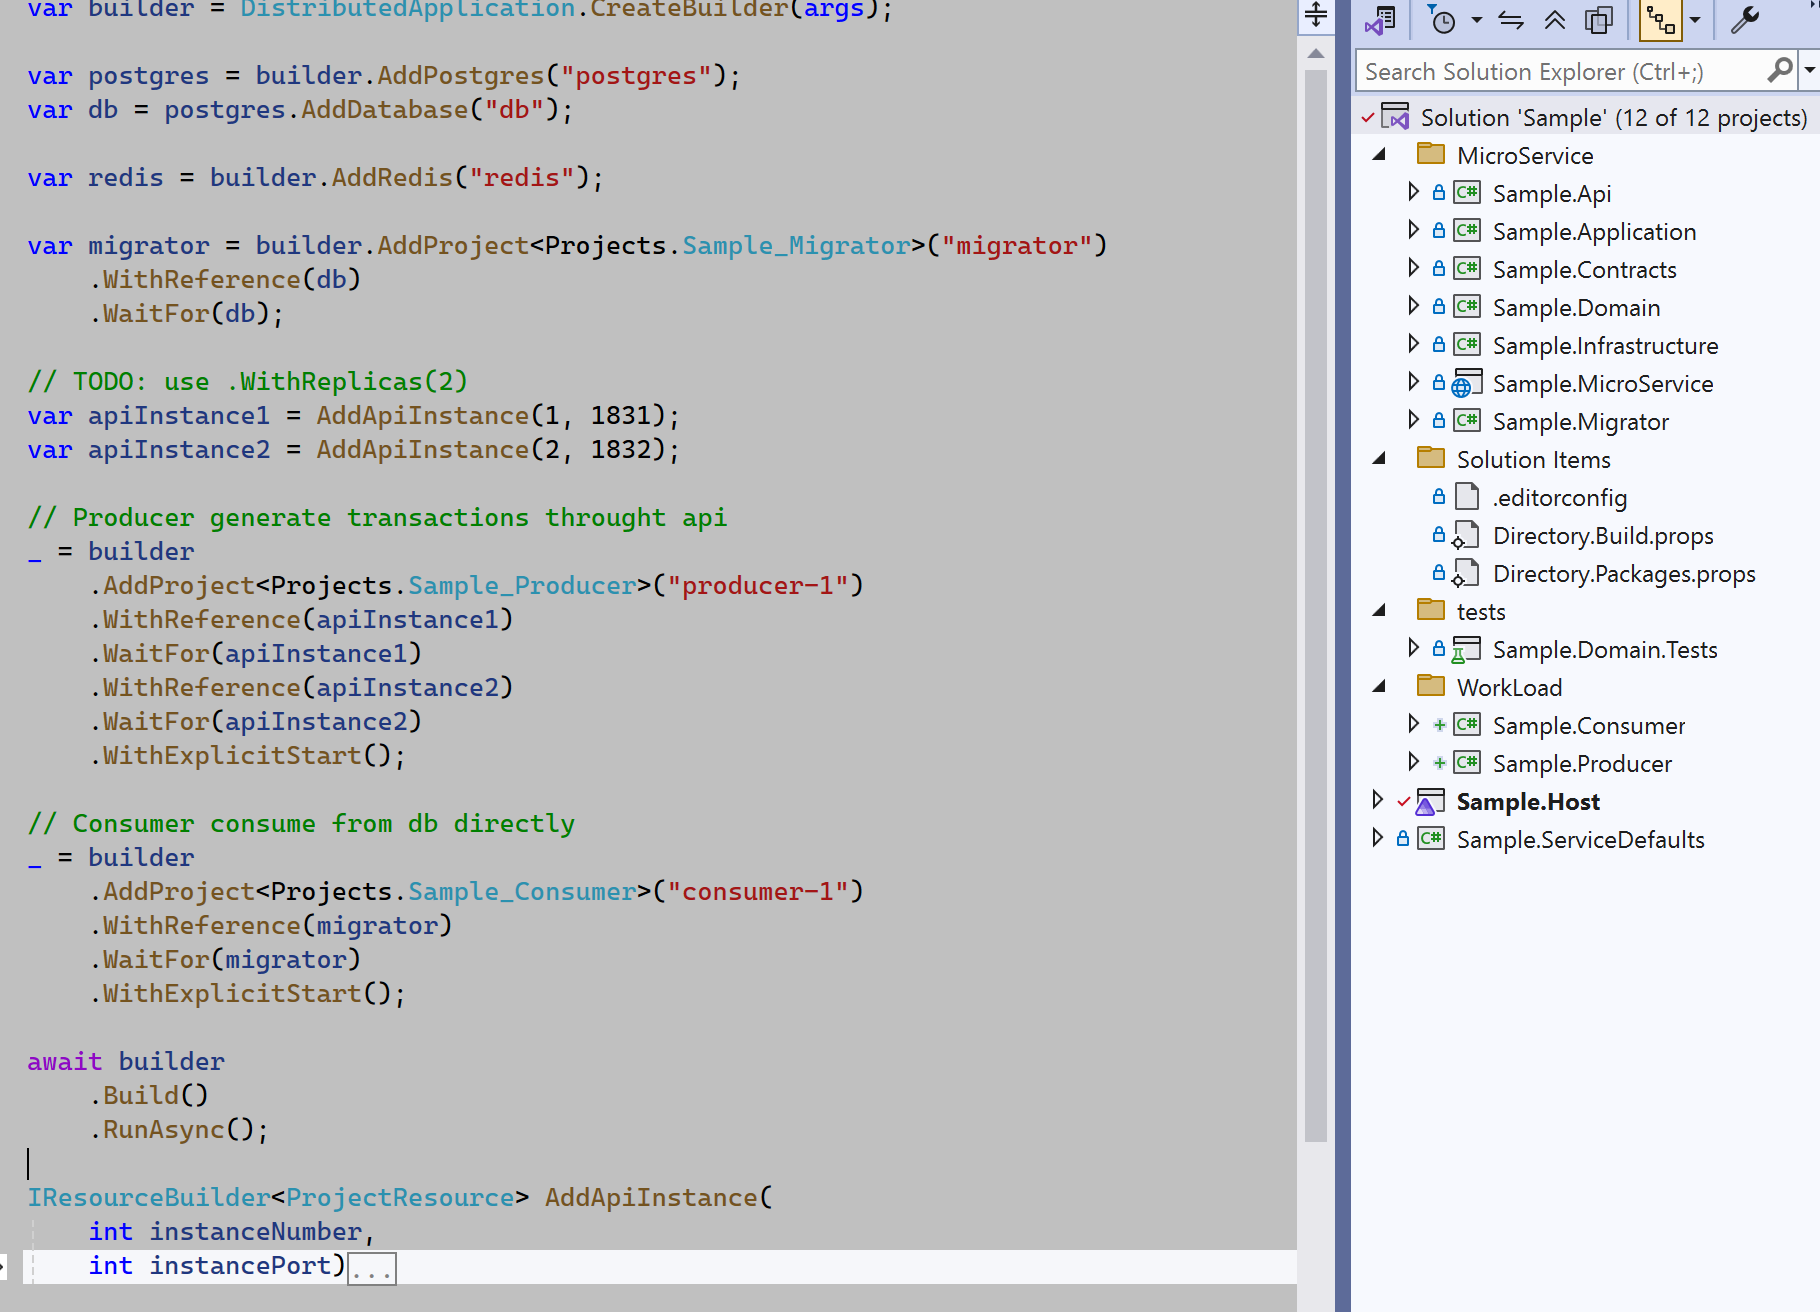
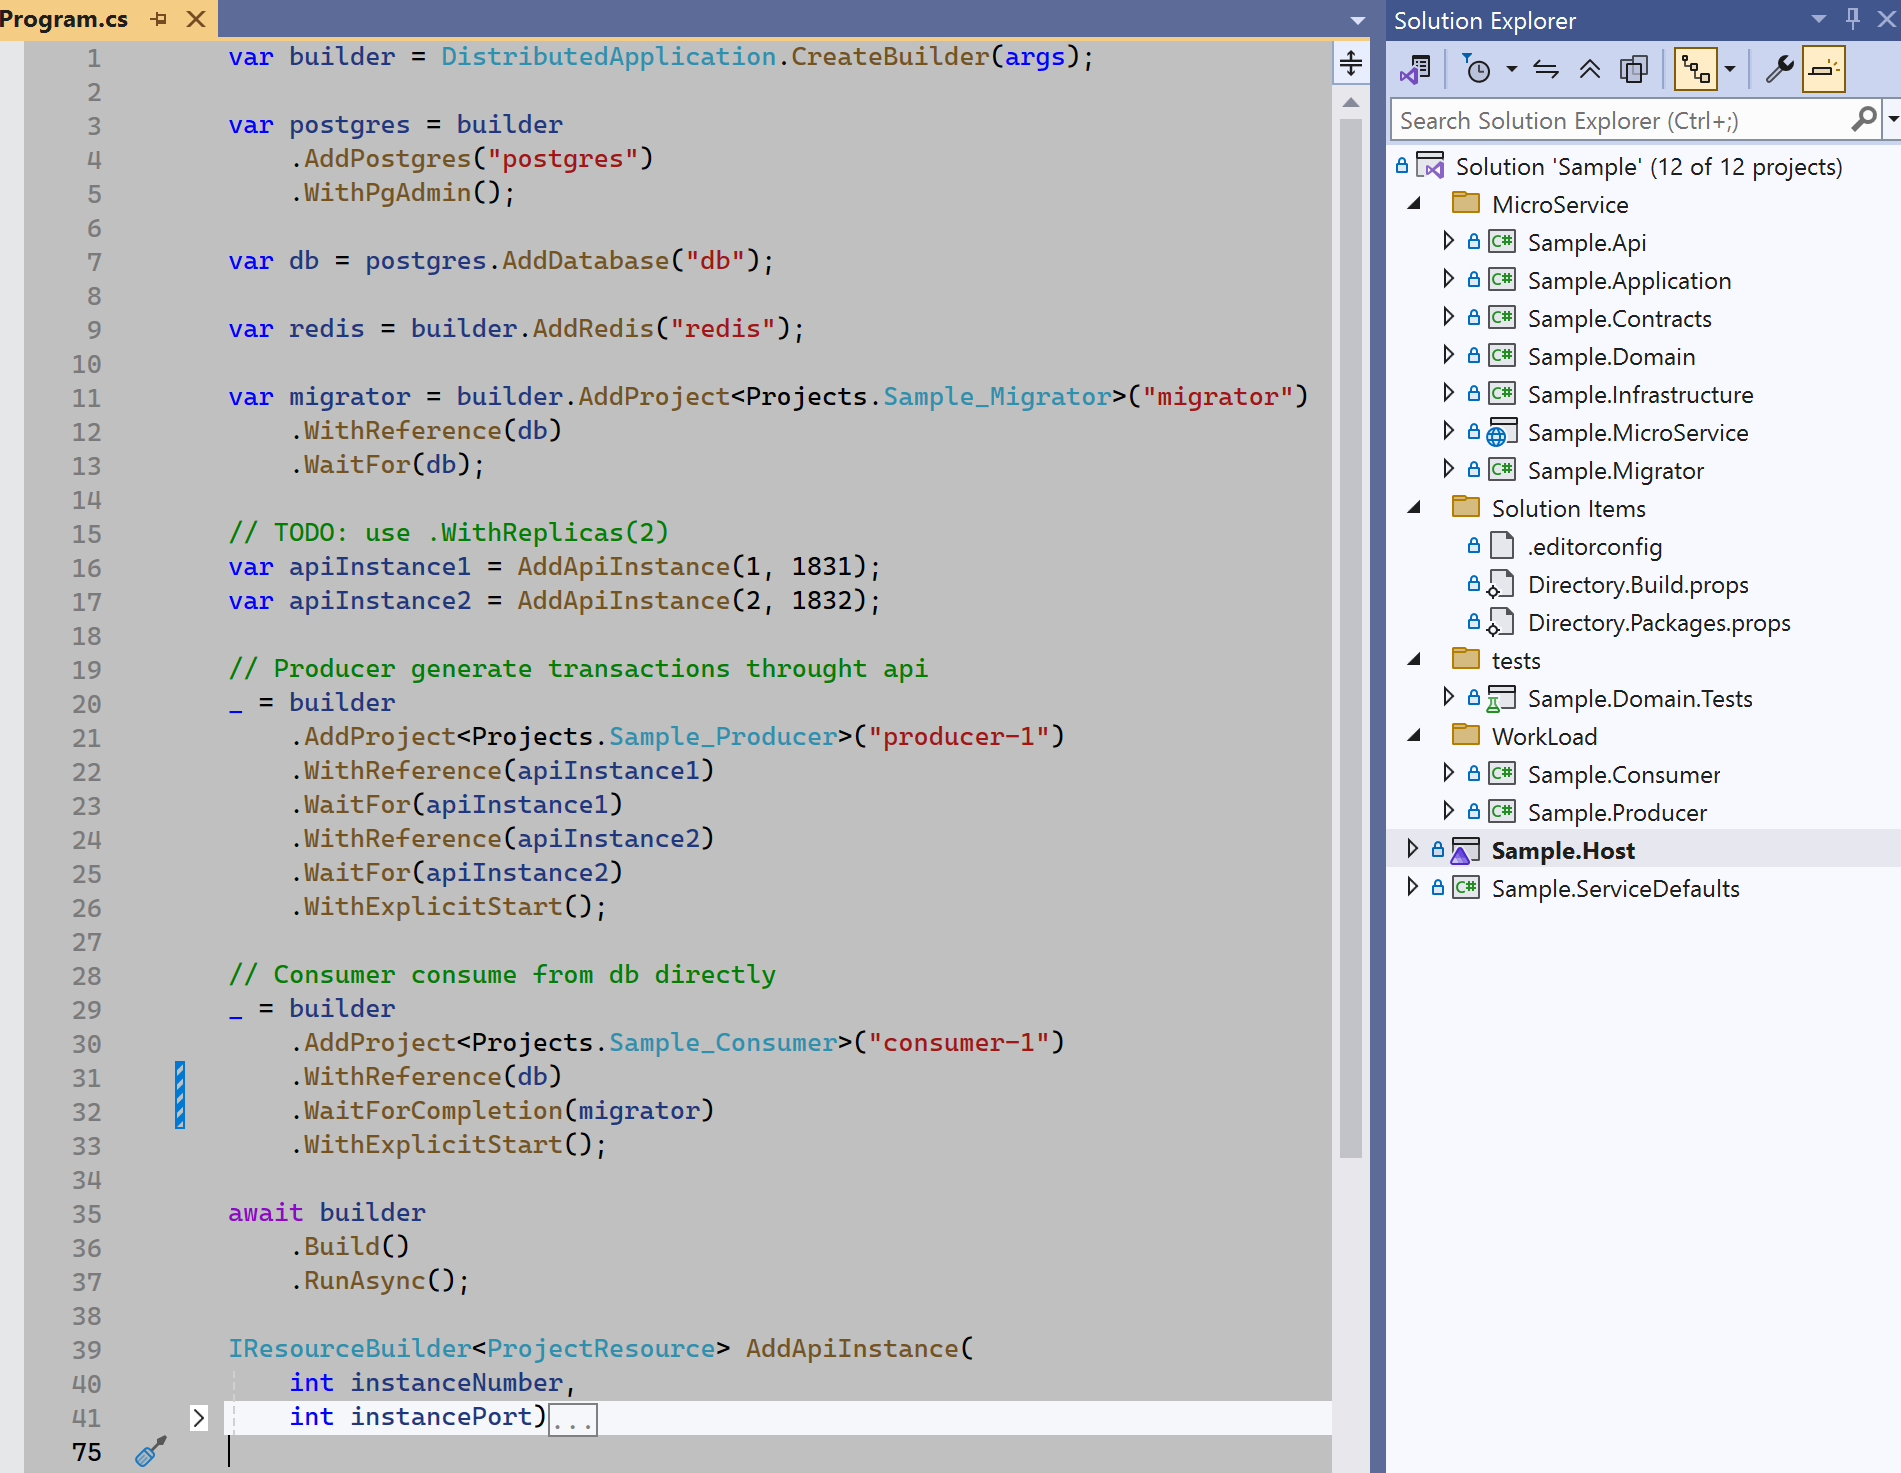
consumer implemeted

Changed region(s): [[0.0, 0.0, 1.0, 1.0], [0.4615, 0.5, 0.5231, 0.5312], [0.5231, 0.1875, 0.5538, 0.2188]]

diff --git a/src/Sample.Consumer/ConsumerHostedService.cs b/src/Sample.Consumer/ConsumerHostedService.cs
@@ -1,0 +1,73 @@
+using Microsoft.Extensions.DependencyInjection;
+using Microsoft.Extensions.Hosting;
+using Microsoft.Extensions.Logging;
+using Sample.Application.Abstractions;
+using Sample.Infrastructure.Database;
+
+namespace Sample.Producer;
+
+internal sealed class ConsumerHostedService : IHostedService
+{
+    // TODO: use options or aspire params
+    public const int BatchSize = 20;
+
+    private readonly IServiceScopeFactory _scopeFactory;
+    private readonly ILogger<ConsumerHostedService> _logger;
+    private readonly CancellationTokenSource _needStop;
+    private volatile int _counter = 0;
+
+    public ConsumerHostedService(
+        IServiceScopeFactory scopeFactory,
+        ILogger<ConsumerHostedService> logger)
+    {
+        _scopeFactory = scopeFactory;
+        _logger = logger;
+        _needStop = new CancellationTokenSource();
+    }
+
+    public Task StartAsync(CancellationToken cancellationToken)
+    {
+        _ = Task.Run(async () => await ProcessingTask(_needStop.Token));
+
+        return Task.CompletedTask;
+    }
+
+    // TODO: Dont work
+    public Task StopAsync(CancellationToken cancellationToken)
+    {
+        _needStop.Dispose();
+
+        _logger.LogInformation("Processed {0} transactions", _counter);
+
+        return Task.CompletedTask;
+    }
+
+    private async Task ProcessingTask(CancellationToken ct)
+    {
+        using var scope = _scopeFactory.CreateScope();
+        var repo = scope.ServiceProvider.GetRequiredService<ITransactionRepository>();
+
+        while (!ct.IsCancellationRequested)
+        {
+            try
+            {
+                var batch = await repo.ExtractBatch(BatchSize, ct);
+
+                Interlocked.Add(ref _counter, batch.Count);
+
+                if (_counter > 100)
+                {
+                    _logger.LogInformation("Processed ~100 transactions");
+                    _counter = 0;
+                }
+            }
+            catch (Exception ex)
+            {
+                _logger.LogError(ex, "Error by extracting batch of trans");
+            }
+
+            // Unsafe Processing...
+            await Task.Delay(50);
+        }
+    }
+}

diff --git a/src/Sample.Infrastructure/Database/TransactionRepository.cs b/src/Sample.Infrastructure/Database/TransactionRepository.cs
@@ -6,7 +6,7 @@ using Sample.Domain.Transactions;
 
 namespace Sample.Infrastructure.Database;
 
-internal sealed class TransactionRepository : ITransactionRepository
+public sealed class TransactionRepository : ITransactionRepository
 {
     /// <summary>
     /// TODO: Consider a flexible upper limit
@@ -79,5 +79,33 @@ internal sealed class TransactionRepository : ITransactionRepository
             .FirstOrDefaultAsync(ct);
 
         return entity;
+    }
+
+    public async Task<IReadOnlyList<Transaction>> ExtractBatch(
+        int batchSize,
+        CancellationToken ct)
+    {
+        using var pgTransaction = await _dbContext.Database.BeginTransactionAsync(
+            isolationLevel: System.Data.IsolationLevel.ReadCommitted,
+            cancellationToken: ct);
+
+        await _dbContext.Database.ExecuteSqlRawAsync(
+                sql: "LOCK TABLE transaction IN SHARE ROW EXCLUSIVE MODE",
+                cancellationToken: ct);
+
+        var batch = await _dbContext
+            .Set<Transaction>()
+            .Take(batchSize)
+            .ToListAsync(ct);
+
+        if (batch.Any())
+        {
+            _dbContext.Set<Transaction>().RemoveRange(batch);
+            await _dbContext.SaveChangesAsync(ct);
+        }
+
+        await pgTransaction.CommitAsync(ct);
+
+        return batch;
     }
 }

diff --git a/src/Sample.Consumer/Program.cs b/src/Sample.Consumer/Program.cs
@@ -1,7 +1,12 @@
 using Microsoft.EntityFrameworkCore;
+using Microsoft.EntityFrameworkCore.Diagnostics;
 using Microsoft.EntityFrameworkCore.Storage;
+using Microsoft.Extensions.DependencyInjection;
 using Microsoft.Extensions.Hosting;
+using Microsoft.Extensions.Logging;
+using Sample.Application.Abstractions;
 using Sample.Infrastructure.Database;
+using Sample.Producer;
 
 var builder = Host.CreateApplicationBuilder(args);
 
@@ -11,10 +16,17 @@ builder.AddNpgsqlDbContext<SampleDbContext>(
     connectionName: "db",
     configureDbContextOptions: opt =>
     {
+        opt.ConfigureWarnings(opt2 => opt2
+            .Log((RelationalEventId.CommandExecuted, LogLevel.Trace)));
+
         opt.UseNpgsql(opt2 => opt2
             .UseNodaTime()
             .ExecutionStrategy(x => new NonRetryingExecutionStrategy(x)));
     });
+
+builder.Services.AddScoped<ITransactionRepository, TransactionRepository>();
+
+builder.Services.AddHostedService<ConsumerHostedService>();
 
 using var host = builder.Build();
 

diff --git a/src/Sample.Producer/ProducerHostedService.cs b/src/Sample.Producer/ProducerHostedService.cs
@@ -77,6 +77,12 @@ internal sealed class ProducerHostedService : IHostedService
             await _channel.Writer.WriteAsync(
                 item: trans,
                 cancellationToken: ct);
+
+            if (_counter > 100)
+            {
+                _logger.LogInformation($"Sended ~100 transactions");
+                _counter = 0;
+            }
         }
     }
 

diff --git a/src/Sample.Application/Abstractions/ITransactionRepository.cs b/src/Sample.Application/Abstractions/ITransactionRepository.cs
@@ -8,6 +8,8 @@ public interface ITransactionRepository
 
     Task<CreateAndCommitStatus> CreateAndCommit(Transaction transaction, CancellationToken ct);
 
+    Task<IReadOnlyList<Transaction>> ExtractBatch(int batchSize, CancellationToken ct);
+
     public enum CreateAndCommitStatus
     {
         Created,

diff --git a/src/Sample.Host/Program.cs b/src/Sample.Host/Program.cs
@@ -28,8 +28,8 @@ _ = builder
 // Consumer consume from db directly
 _ = builder
     .AddProject<Projects.Sample_Consumer>("consumer-1")
-    .WithReference(migrator)
-    .WaitFor(migrator)
+    .WithReference(db)
+    .WaitForCompletion(migrator)
     .WithExplicitStart();
 
 await builder
